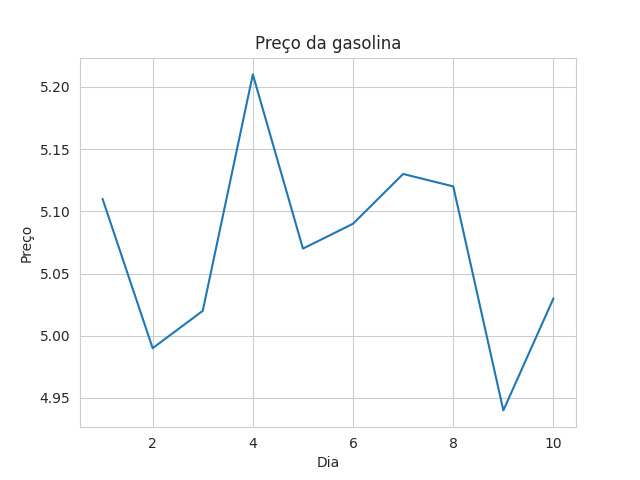
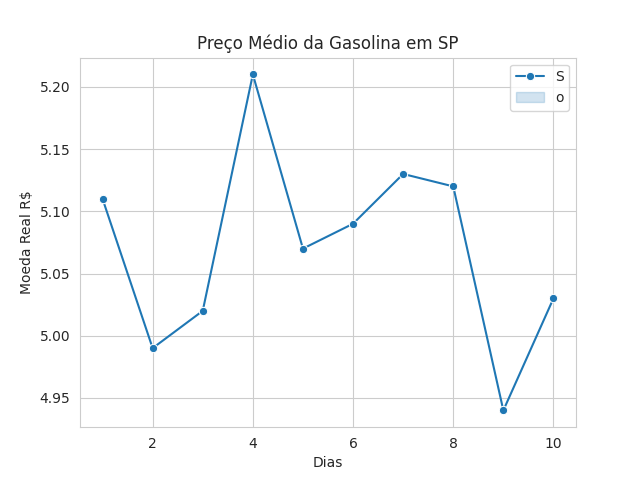
Arquivos e codigo gera Grafico criados

diff --git a/gasolina.py b/gasolina.py
@@ -5,6 +5,7 @@ import seaborn as sns
 gasolina_df = pd.read_csv('gasolina.csv', sep=',')
 
 with sns.axes_style('whitegrid'):
-  grafico = sns.lineplot(data=gasolina_df, x='dia', y='venda', palette='pastel')
-  grafico.set(title='Preço da gasolina', xlabel='Dia', ylabel='Preço')
+  grafico = sns.lineplot(data=gasolina_df, x='dia', y='venda', marker="o", palette='pastel')
+  grafico.set(title='Preço Médio da Gasolina em SP', xlabel='Dias', ylabel='Moeda Real R$')
+  grafico.legend("Sobe" , loc='upper right')
   grafico.figure.savefig('gasolina.png')
